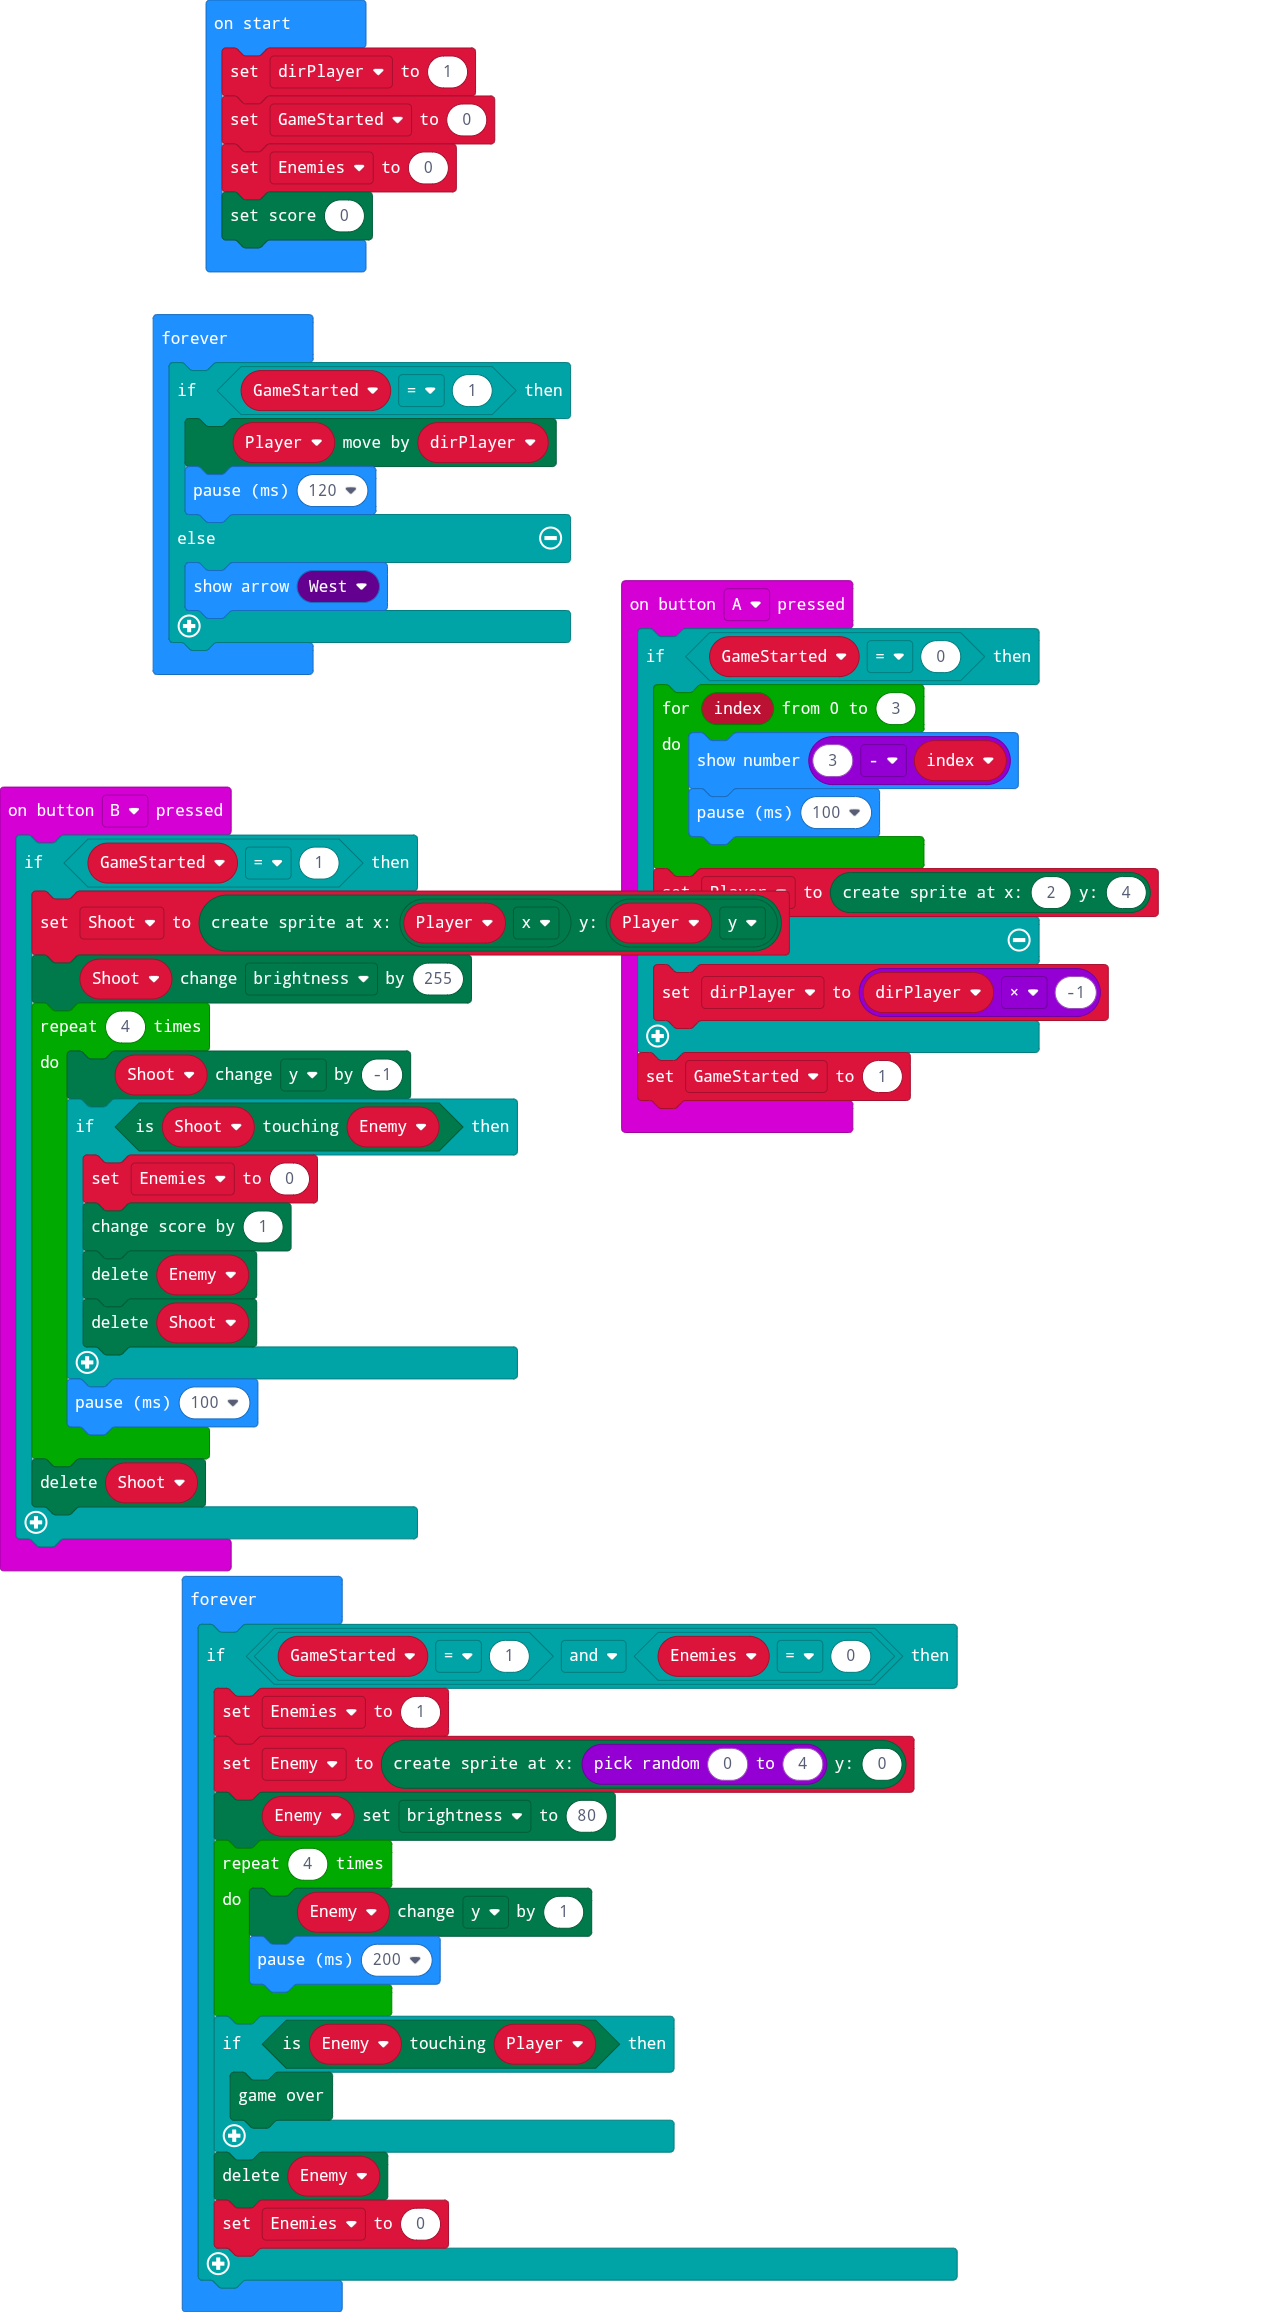
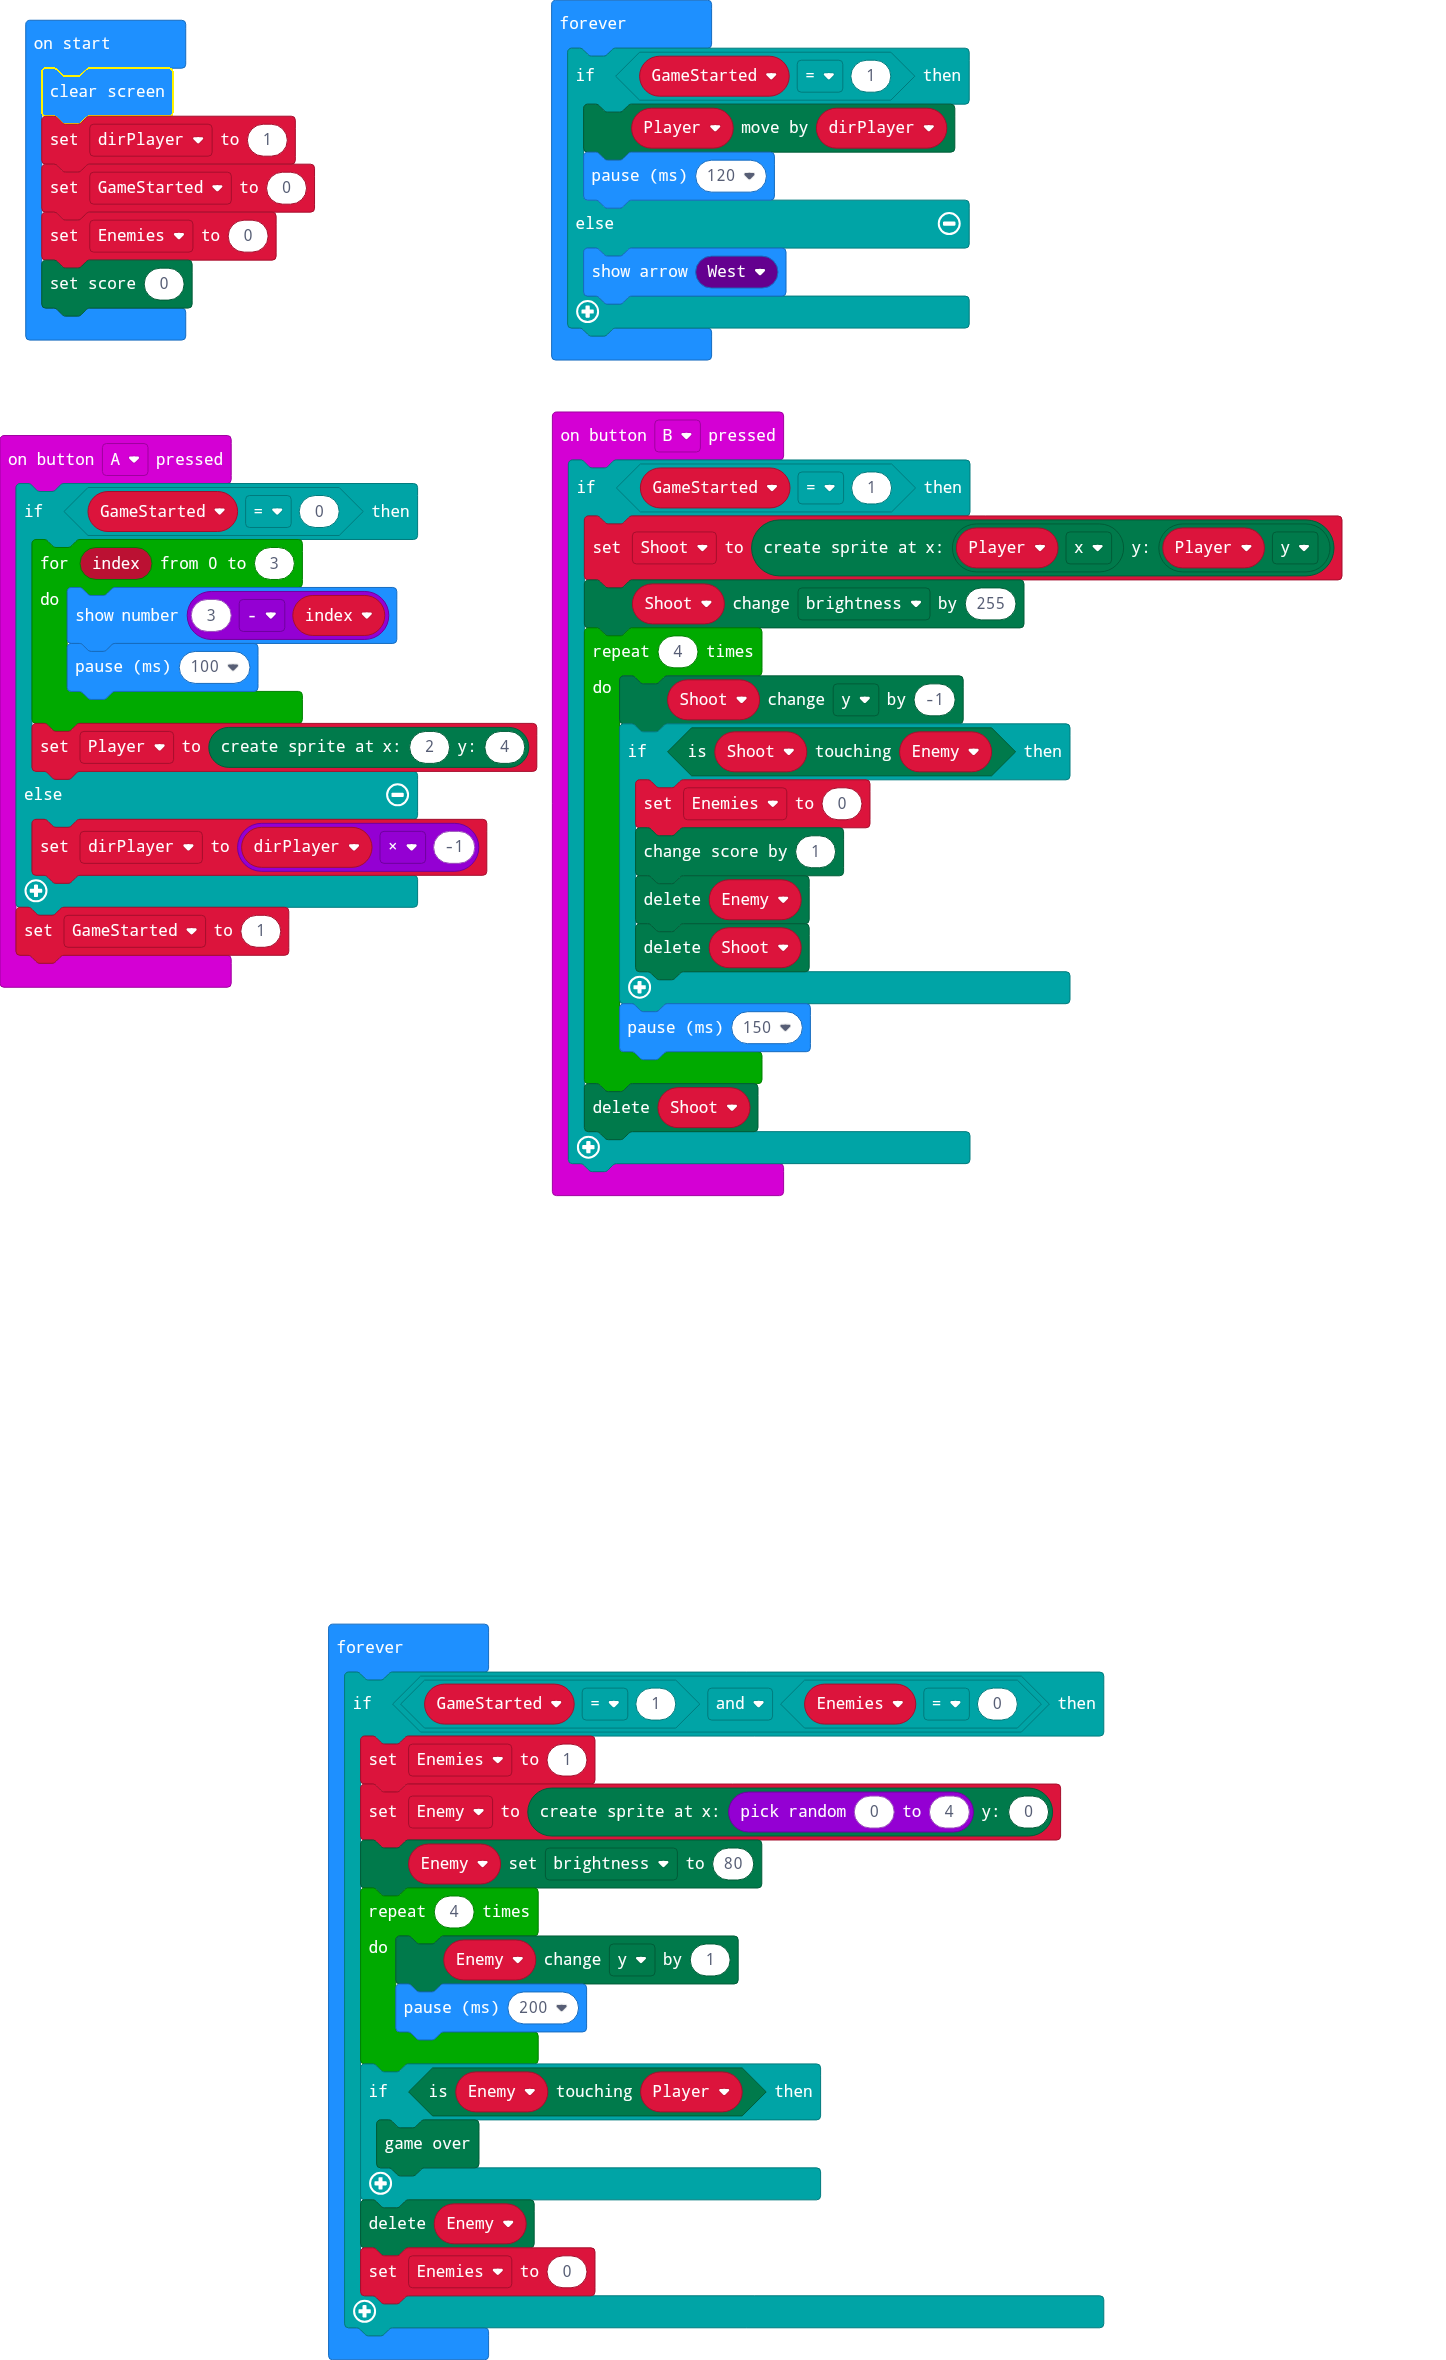
Tweaks

diff --git a/main.ts b/main.ts
@@ -22,7 +22,7 @@ input.onButtonPressed(Button.B, function () {
                 Enemy.delete()
                 Shoot.delete()
             }
-            basic.pause(100)
+            basic.pause(150)
         }
         Shoot.delete()
     }
@@ -33,6 +33,7 @@ let Player: game.LedSprite = null
 let Enemies = 0
 let GameStarted = 0
 let dirPlayer = 0
+basic.clearScreen()
 dirPlayer = 1
 GameStarted = 0
 Enemies = 0
